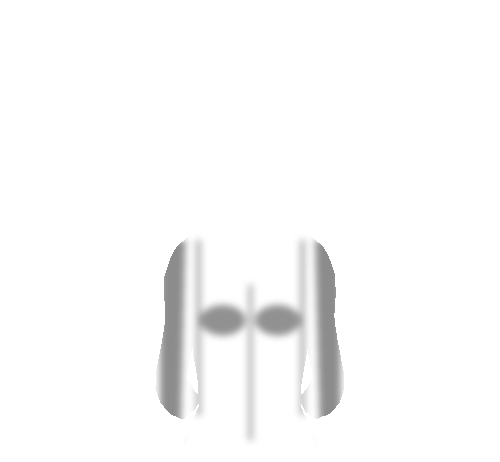
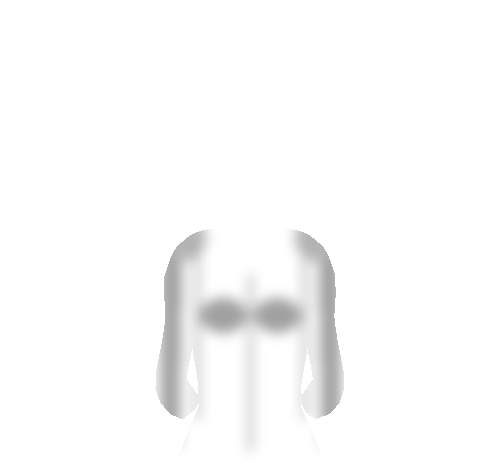
Implement round 3D volume and dedicated metallic sheen layer for SpiderCatsuit

Changed region(s): [[0.3, 0.4848, 0.6, 0.9091], [0.57, 0.4848, 0.69, 0.9091]]

diff --git a/studio/index.html b/studio/index.html
@@ -1248,13 +1248,25 @@
 			{ id: "EdgeLine", label: "EdgeLine (Contour Lines)", defaultOn: true },
 		];
 
+		const SPIDER_LAYERS = [
+			{ id: "Mannequin", label: "Base Mannequin Body", defaultOn: true },
+			{ id: "BaseColor", label: "Suit Base (Red & Blue Pattern)", defaultOn: true },
+			{ id: "Shadow", label: "Volumetric 3D Shadow (Pecs, Delts, Legs)", defaultOn: true },
+			{ id: "Sheen", label: "Metallic Luster Sheen (Cylindrical Wrap)", defaultOn: true },
+			{ id: "Highlight", label: "Specular Glints (Muscle Apex)", defaultOn: true },
+			{ id: "EdgeLine", label: "Comic Edge Line (Dark Contour)", defaultOn: true },
+		];
+
 		const layerState = {};
 		PANTYHOSE_LAYERS.forEach(l => layerState[l.id] = l.defaultOn);
 		SUIT_LAYERS.forEach(l => { if (layerState[l.id] === undefined) layerState[l.id] = l.defaultOn; });
+		SPIDER_LAYERS.forEach(l => { if (layerState[l.id] === undefined) layerState[l.id] = l.defaultOn; });
 
 		function initLayerUI() {
 			layerList.innerHTML = "";
-			const currentLayers = (itemModeSelect.value === "GlossyBodystocking") ? SUIT_LAYERS : PANTYHOSE_LAYERS;
+			const currentLayers = (itemModeSelect.value === "SpiderCatsuit")
+				? SPIDER_LAYERS
+				: ((itemModeSelect.value === "GlossyBodystocking") ? SUIT_LAYERS : PANTYHOSE_LAYERS);
 			currentLayers.forEach(l => {
 				const item = document.createElement("div");
 				item.className = "layer-item";
@@ -1517,7 +1529,16 @@
 					if (upShd) ctx.drawImage(upShd, 0, 0);
 				}
 
-				// 4. Slender & Subtle Specular Highlights (Delicate muscle glints)
+				// 4. Dedicated Metallic Luster Sheen (Round Cylindrical & Spherical Wrap)
+				if (layerState["Sheen"] !== false) {
+					const lowSheen = await loadImage("../assets/Assets/Female3DCG/SuitLower/SpiderCatsuit_Small_Sheen.png");
+					if (lowSheen) ctx.drawImage(lowSheen, 0, 462);
+
+					const upSheen = await loadImage("../assets/Assets/Female3DCG/Suit/SpiderCatsuit_FlatSmall_Sheen.png");
+					if (upSheen) ctx.drawImage(upSheen, 0, 0);
+				}
+
+				// 5. Slender & Subtle Specular Highlights (Delicate muscle glints)
 				if (layerState["Highlight"] !== false) {
 					const lowHlt = await loadImage("../assets/Assets/Female3DCG/SuitLower/SpiderCatsuit_Small_Highlight.png");
 					if (lowHlt) ctx.drawImage(lowHlt, 0, 462);

diff --git a/jojo-mod.user.js b/jojo-mod.user.js
@@ -426,6 +426,7 @@
 		"Assets/Female3DCG/Suit/SpiderCatsuit_FlatSmall_EdgeLine.png",
 		"Assets/Female3DCG/Suit/SpiderCatsuit_FlatSmall_Highlight.png",
 		"Assets/Female3DCG/Suit/SpiderCatsuit_FlatSmall_Shadow.png",
+		"Assets/Female3DCG/Suit/SpiderCatsuit_FlatSmall_Sheen.png",
 		"Assets/Female3DCG/Suit/Yoked/GlossyBodystocking_FlatMedium_A2.png",
 		"Assets/Female3DCG/Suit/Yoked/GlossyBodystocking_FlatMedium_A3.png",
 		"Assets/Female3DCG/Suit/Yoked/GlossyBodystocking_FlatMedium_A4.png",
@@ -528,6 +529,7 @@
 		"Assets/Female3DCG/SuitLower/SpiderCatsuit_Small_EdgeLine.png",
 		"Assets/Female3DCG/SuitLower/SpiderCatsuit_Small_Highlight.png",
 		"Assets/Female3DCG/SuitLower/SpiderCatsuit_Small_Shadow.png",
+		"Assets/Female3DCG/SuitLower/SpiderCatsuit_Small_Sheen.png",
 		"Assets/Female3DCG/SuitLower/Spread/乳胶衣_FlatMedium_下底色.png",
 		"Assets/Female3DCG/SuitLower/Spread/乳胶衣_FlatMedium_下阴影.png",
 		"Assets/Female3DCG/SuitLower/Spread/乳胶衣_FlatMedium_下高光.png",
